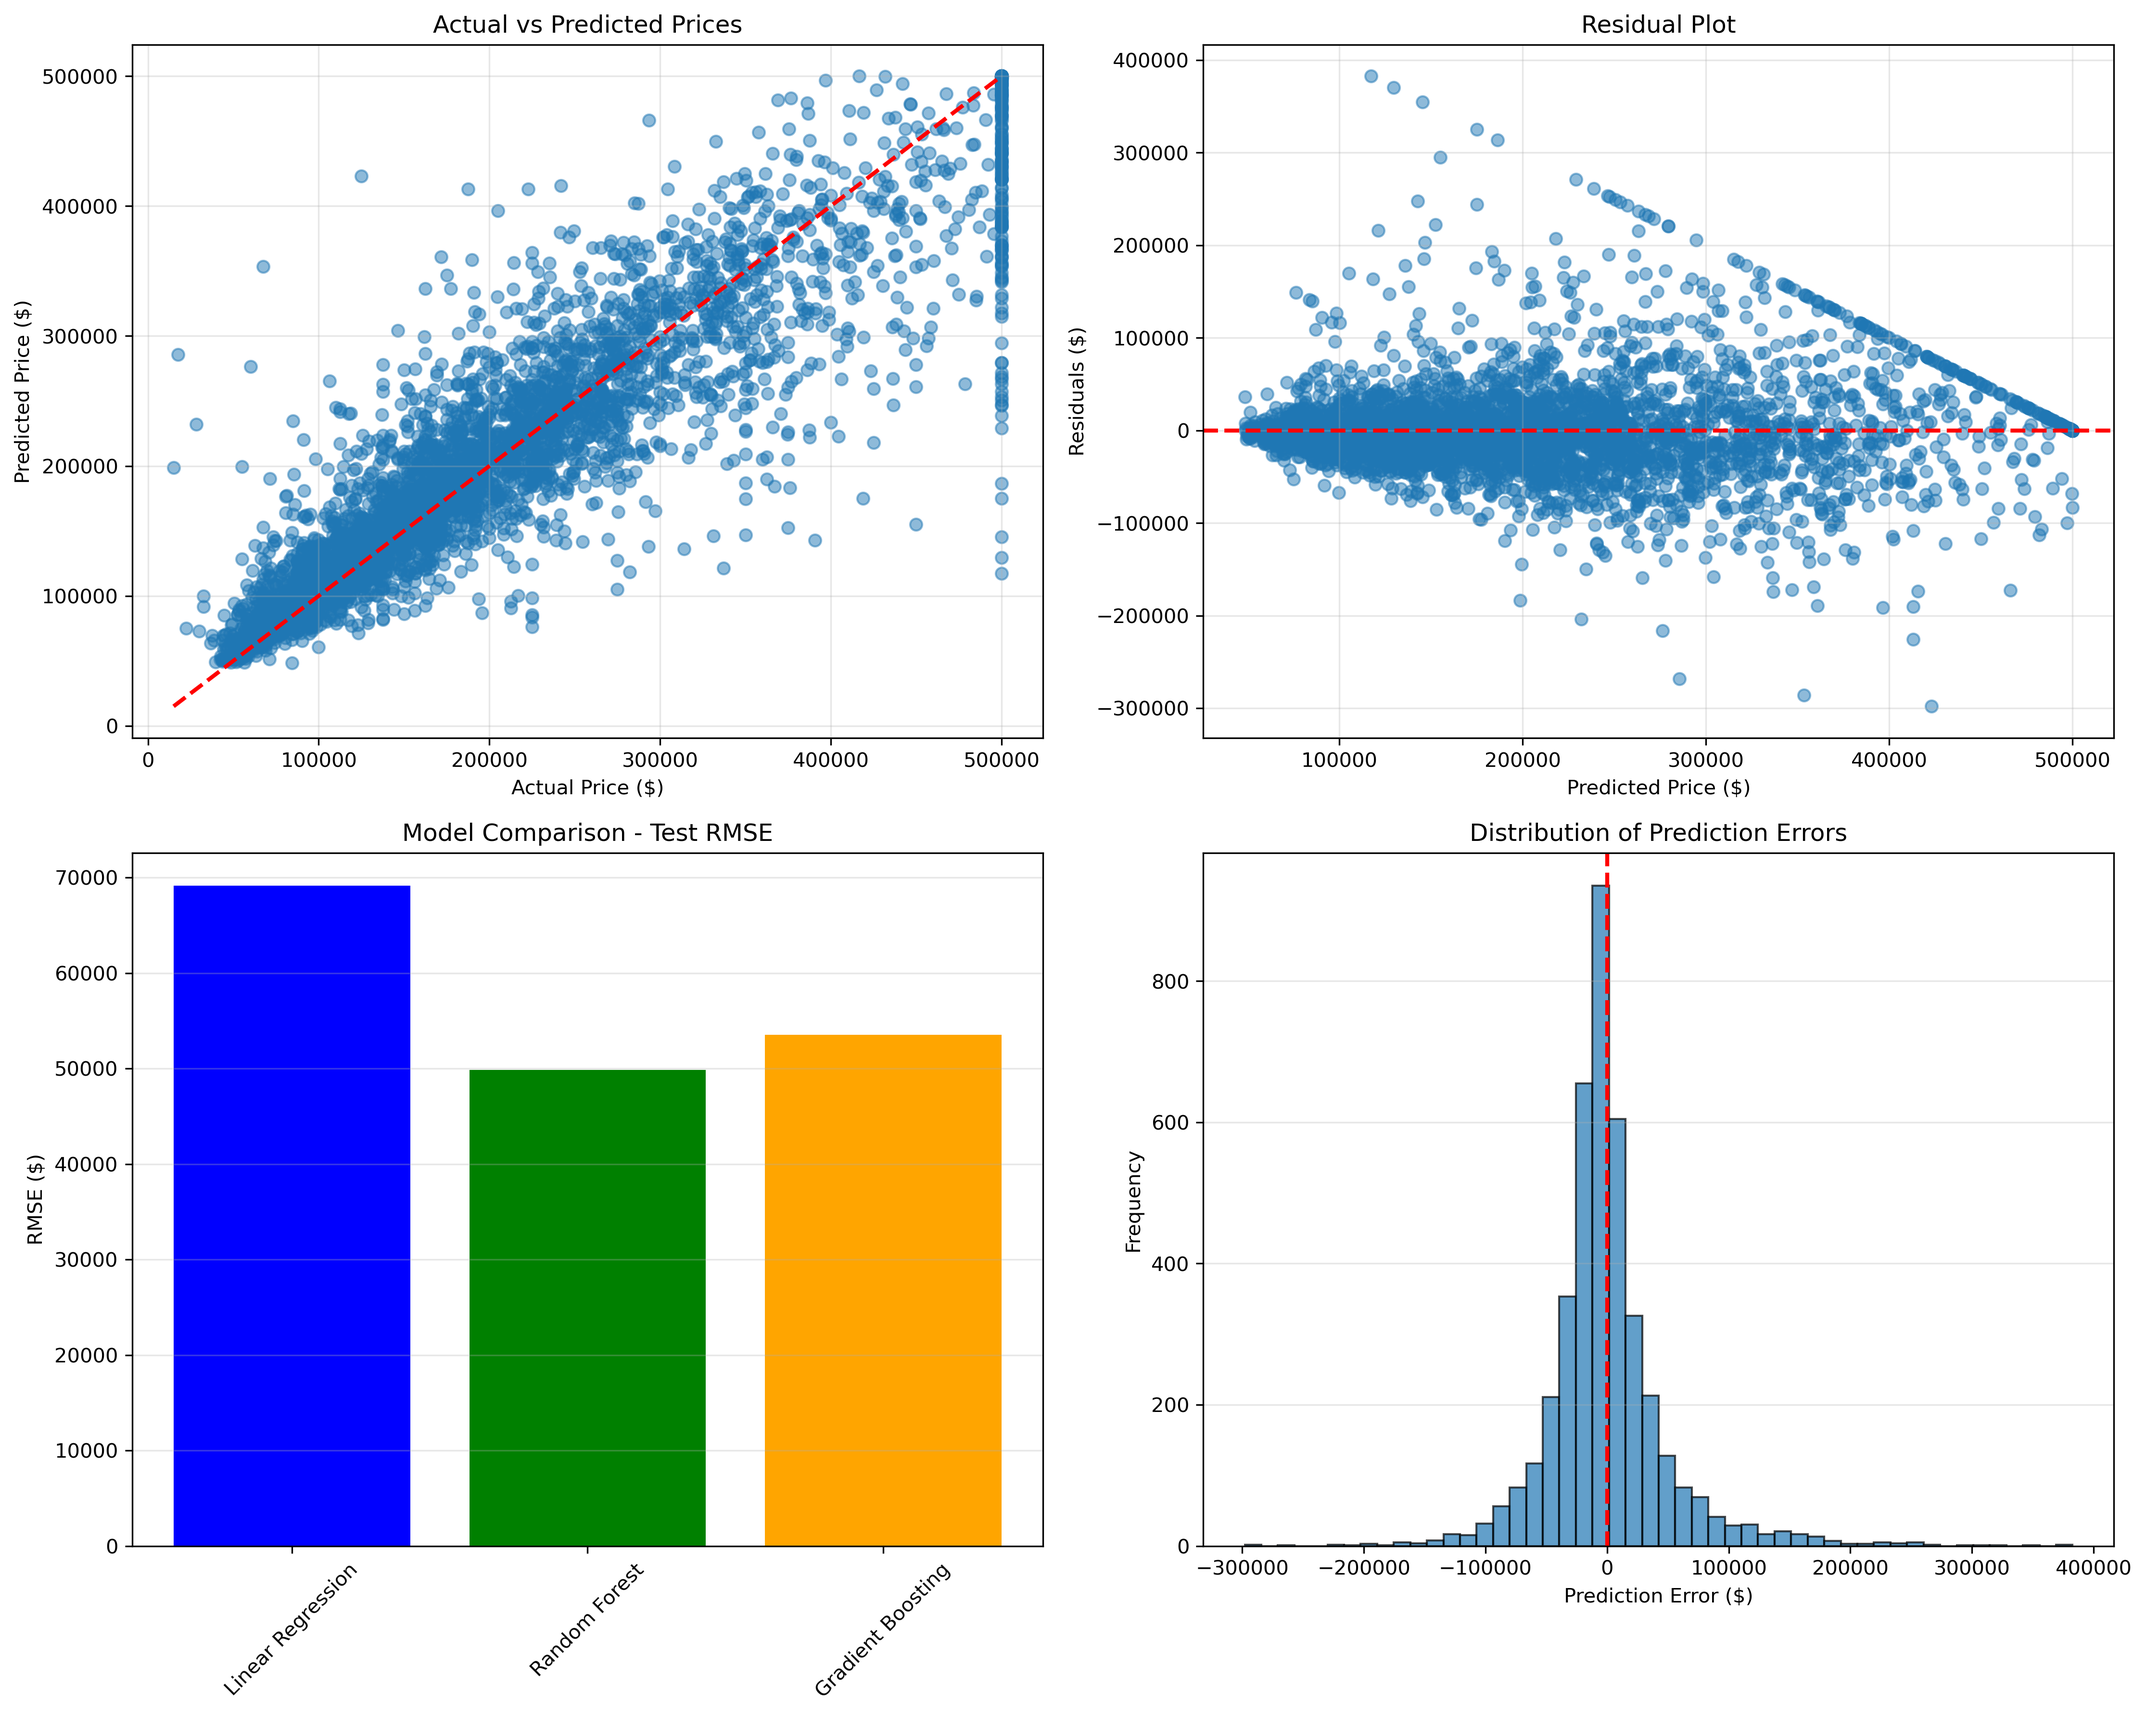
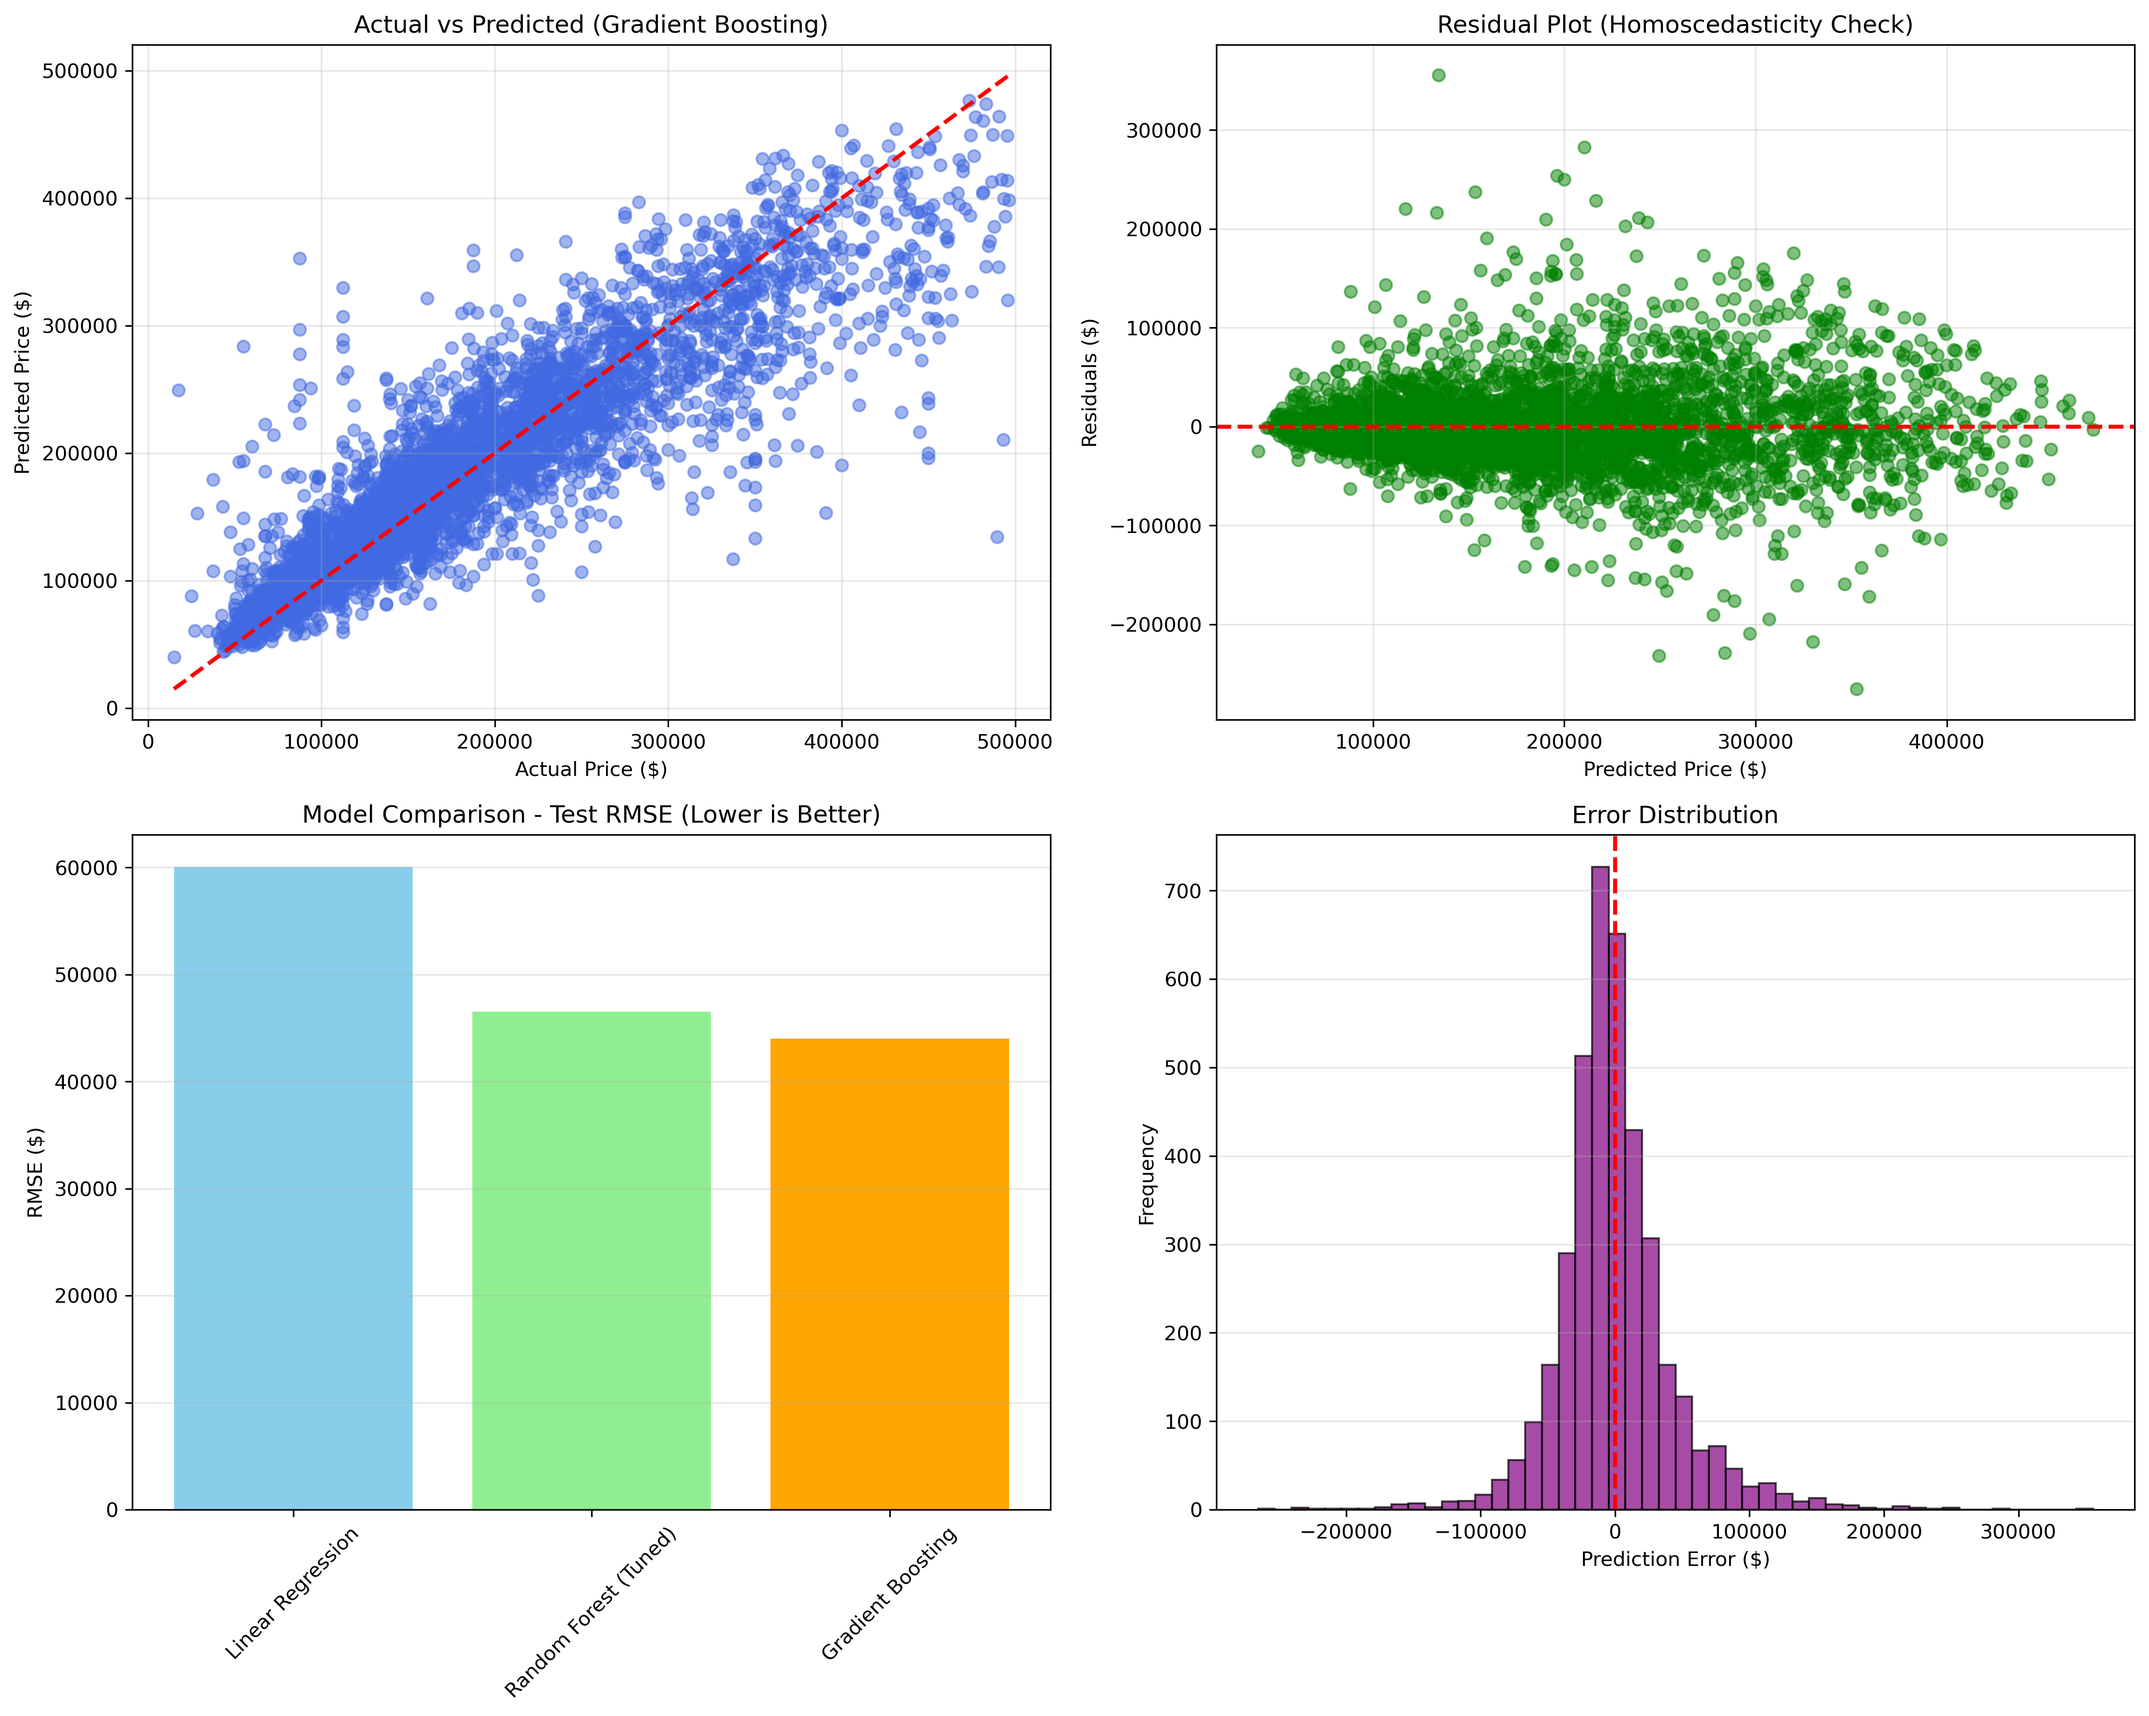
v2

diff --git a/housing_price_prediction.py b/housing_price_prediction.py
@@ -1,7 +1,11 @@
 """
-Housing Price Prediction Model
+Housing Price Prediction Model (Optimized)
 This script builds and evaluates a machine learning model to predict housing prices
-using the California Housing dataset.
+using the California Housing dataset. 
+
+Adjustments made:
+1. Removed capped data (>= $500,000) to improve accuracy.
+2. Tuned Random Forest hyperparameters to prevent overfitting.
 """
 
 import pandas as pd
@@ -27,7 +31,7 @@ np.random.seed(42)
 # ============================================================================
 
 print("=" * 80)
-print("HOUSING PRICE PREDICTION MODEL")
+print("HOUSING PRICE PREDICTION MODEL (OPTIMIZED)")
 print("=" * 80)
 
 # Load the data
@@ -35,21 +39,18 @@ df = pd.read_csv('housing.csv')
 
 print("\n1. DATA OVERVIEW")
 print("-" * 80)
-print(f"Dataset shape: {df.shape}")
+print(f"Original Dataset shape: {df.shape}")
+
+# --- ADJUSTMENT 1: REMOVE CAPPED VALUES ---
+# The dataset caps houses at 500,001. This creates a fake "wall" in the data.
+# We remove these to help the model learn the true price curve.
+print("\n[ADJUSTMENT] Filtering out capped values ($500,001)...")
+df = df[df['median_house_value'] < 500000]
+print(f"New Dataset shape: {df.shape}")
+# ------------------------------------------
+
 print(f"\nFirst few rows:")
 print(df.head())
-
-print(f"\nData types:")
-print(df.dtypes)
-
-print(f"\nMissing values:")
-print(df.isnull().sum())
-
-print(f"\nBasic statistics:")
-print(df.describe())
-
-print(f"\nTarget variable (median_house_value) distribution:")
-print(df['median_house_value'].describe())
 
 # ============================================================================
 # 2. DATA PREPROCESSING
@@ -67,9 +68,6 @@ numerical_features = ['longitude', 'latitude', 'housing_median_age', 'total_room
                      'total_bedrooms', 'population', 'households', 'median_income']
 categorical_features = ['ocean_proximity']
 
-print(f"Numerical features: {numerical_features}")
-print(f"Categorical features: {categorical_features}")
-
 # ============================================================================
 # 3. FEATURE ENGINEERING
 # ============================================================================
@@ -85,10 +83,7 @@ X['population_per_household'] = X['population'] / X['households']
 # Update numerical features list
 numerical_features.extend(['rooms_per_household', 'bedrooms_per_room', 'population_per_household'])
 
-print("Created new features:")
-print("- rooms_per_household")
-print("- bedrooms_per_room")
-print("- population_per_household")
+print("Created new features: rooms_per_household, bedrooms_per_room, population_per_household")
 
 # ============================================================================
 # 4. TRAIN-TEST SPLIT
@@ -111,27 +106,20 @@ print(f"Test set size: {X_test.shape[0]} samples")
 print("\n\n5. CREATING PREPROCESSING PIPELINE")
 print("-" * 80)
 
-# Numerical pipeline: impute missing values and scale
 numerical_pipeline = Pipeline([
     ('imputer', SimpleImputer(strategy='median')),
     ('scaler', StandardScaler())
 ])
 
-# Categorical pipeline: impute and one-hot encode
 categorical_pipeline = Pipeline([
     ('imputer', SimpleImputer(strategy='constant', fill_value='missing')),
     ('onehot', OneHotEncoder(handle_unknown='ignore'))
 ])
 
-# Combine pipelines
 preprocessor = ColumnTransformer([
     ('num', numerical_pipeline, numerical_features),
     ('cat', categorical_pipeline, categorical_features)
 ])
-
-print("Preprocessing pipeline created:")
-print("- Numerical features: Imputation (median) + Scaling")
-print("- Categorical features: Imputation (constant) + One-Hot Encoding")
 
 # ============================================================================
 # 6. MODEL TRAINING
@@ -140,11 +128,26 @@ print("- Categorical features: Imputation (constant) + One-Hot Encoding")
 print("\n\n6. MODEL TRAINING")
 print("-" * 80)
 
-# Define models to compare
+# --- ADJUSTMENT 2: TUNED HYPERPARAMETERS ---
+# We added constraints (max_depth, min_samples_leaf) to stop overfitting.
 models = {
     'Linear Regression': LinearRegression(),
-    'Random Forest': RandomForestRegressor(n_estimators=100, random_state=42, n_jobs=-1),
-    'Gradient Boosting': GradientBoostingRegressor(n_estimators=100, random_state=42)
+    
+    'Random Forest (Tuned)': RandomForestRegressor(
+        n_estimators=200,      # More trees
+        max_depth=20,          # Restrict depth to prevent memorization
+        min_samples_split=5,   # Requires 5 samples to split a node
+        min_samples_leaf=4,    # Requires 4 samples in a leaf (smooths noise)
+        random_state=42, 
+        n_jobs=-1
+    ),
+    
+    'Gradient Boosting': GradientBoostingRegressor(
+        n_estimators=150, 
+        max_depth=5,           # Slightly deeper than default (3)
+        learning_rate=0.1,
+        random_state=42
+    )
 }
 
 results = {}
@@ -210,15 +213,12 @@ best_model_name = min(results.keys(), key=lambda x: results[x]['test_rmse'])
 best_model = results[best_model_name]['model']
 
 print(f"\nBest Model: {best_model_name}")
-print(f"Test RMSE: ${results[best_model_name]['test_rmse']:,.2f}")
-print(f"Test R²: {results[best_model_name]['test_r2']:.4f}")
-print(f"Test MAE: ${results[best_model_name]['test_mae']:,.2f}")
 
 # ============================================================================
-# 8. FEATURE IMPORTANCE (for tree-based models)
+# 8. FEATURE IMPORTANCE
 # ============================================================================
 
-if best_model_name in ['Random Forest', 'Gradient Boosting']:
+if 'Forest' in best_model_name or 'Boosting' in best_model_name:
     print("\n\n8. FEATURE IMPORTANCE")
     print("-" * 80)
 
@@ -265,11 +265,10 @@ print("-" * 80)
 
 import pickle
 
-# Save the model
 with open('best_housing_model.pkl', 'wb') as f:
     pickle.dump(best_model, f)
 
-print(f"Best model ({best_model_name}) saved to 'best_housing_model.pkl'")
+print(f"Best model saved to 'best_housing_model.pkl'")
 
 # ============================================================================
 # 11. VISUALIZATIONS
@@ -278,40 +277,39 @@ print(f"Best model ({best_model_name}) saved to 'best_housing_model.pkl'")
 print("\n\n11. CREATING VISUALIZATIONS")
 print("-" * 80)
 
-# Create a figure with multiple subplots
 fig, axes = plt.subplots(2, 2, figsize=(15, 12))
 
 # 1. Actual vs Predicted
-axes[0, 0].scatter(y_test, results[best_model_name]['predictions'], alpha=0.5)
+axes[0, 0].scatter(y_test, results[best_model_name]['predictions'], alpha=0.5, color='royalblue')
 axes[0, 0].plot([y_test.min(), y_test.max()], [y_test.min(), y_test.max()], 'r--', lw=2)
 axes[0, 0].set_xlabel('Actual Price ($)')
 axes[0, 0].set_ylabel('Predicted Price ($)')
-axes[0, 0].set_title('Actual vs Predicted Prices')
+axes[0, 0].set_title(f'Actual vs Predicted ({best_model_name})')
 axes[0, 0].grid(True, alpha=0.3)
 
 # 2. Residual plot
 residuals = y_test - results[best_model_name]['predictions']
-axes[0, 1].scatter(results[best_model_name]['predictions'], residuals, alpha=0.5)
+axes[0, 1].scatter(results[best_model_name]['predictions'], residuals, alpha=0.5, color='green')
 axes[0, 1].axhline(y=0, color='r', linestyle='--', lw=2)
 axes[0, 1].set_xlabel('Predicted Price ($)')
 axes[0, 1].set_ylabel('Residuals ($)')
-axes[0, 1].set_title('Residual Plot')
+axes[0, 1].set_title('Residual Plot (Homoscedasticity Check)')
 axes[0, 1].grid(True, alpha=0.3)
 
 # 3. Model comparison (RMSE)
 model_names = list(results.keys())
 test_rmses = [results[m]['test_rmse'] for m in model_names]
-axes[1, 0].bar(model_names, test_rmses, color=['blue', 'green', 'orange'])
+axes[1, 0].bar(model_names, test_rmses, color=['skyblue', 'lightgreen', 'orange'])
 axes[1, 0].set_ylabel('RMSE ($)')
-axes[1, 0].set_title('Model Comparison - Test RMSE')
+axes[1, 0].set_title('Model Comparison - Test RMSE (Lower is Better)')
 axes[1, 0].tick_params(axis='x', rotation=45)
 axes[1, 0].grid(True, alpha=0.3, axis='y')
 
 # 4. Distribution of prediction errors
-axes[1, 1].hist(residuals, bins=50, edgecolor='black', alpha=0.7)
+axes[1, 1].hist(residuals, bins=50, edgecolor='black', alpha=0.7, color='purple')
 axes[1, 1].set_xlabel('Prediction Error ($)')
 axes[1, 1].set_ylabel('Frequency')
-axes[1, 1].set_title('Distribution of Prediction Errors')
+axes[1, 1].set_title('Error Distribution')
 axes[1, 1].axvline(x=0, color='r', linestyle='--', lw=2)
 axes[1, 1].grid(True, alpha=0.3, axis='y')
 
@@ -322,5 +320,5 @@ print("Visualization saved to 'housing_price_model_evaluation.png'")
 plt.show()
 
 print("\n" + "=" * 80)
-print("MODEL TRAINING COMPLETE!")
+print("OPTIMIZED TRAINING COMPLETE!")
 print("=" * 80)
